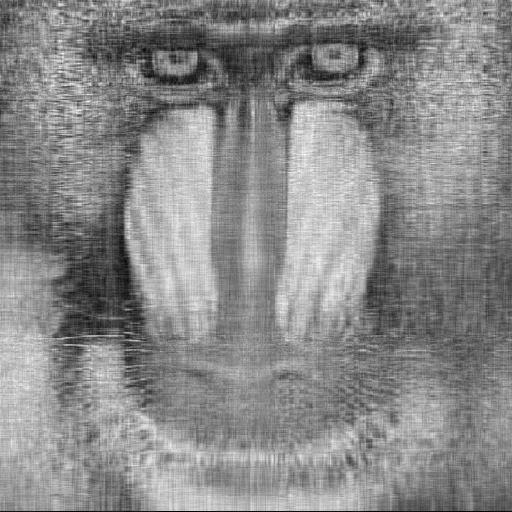
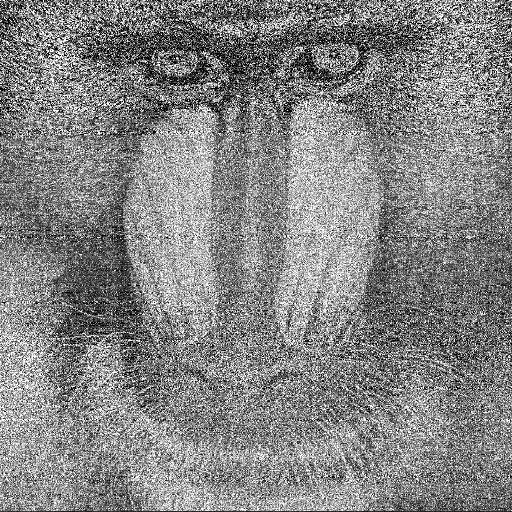
image denoising shit

diff --git a/image_denoising.py b/image_denoising.py
@@ -14,13 +14,14 @@ m, n = original_image.shape
 
 noise_std = 0.1
 np.random.seed(0)
-noise = np.random.normal(0, noise_std, original_image.shape)
-noisy_image = original_image + noise, 0, 1
+noise = np.random.normal(0, noise_std**0.5, original_image.shape)
+print(noise)
+noisy_image = np.clip(original_image + noise,0,1)
 plt.imsave('noisy_mandrill.jpg',noisy_image, cmap='gray')
 
 plt.imsave('denoising_results/noisy_image.jpg', noisy_image, cmap='gray')
 
-percentages=[0.01, 0.05]
+percentages=[0.01, 0.05, 0.1, 0.2]
 solvers = ['mu', 'cd']
 results = []
 full_rank= np.linalg.matrix_rank(noisy_image)
@@ -42,7 +43,7 @@ for perc in percentages:
             mse = np.mean((original_image - reconstructed) ** 2)
             psnr = 10 * np.log10(1.0 / mse)
 
-            img_filename = f'denoising_results/reconstructed_{solver}.jpg'
+            img_filename = f'denoising_results/reconstructed_{perc}_{solver}.jpg'
             plt.imsave(img_filename, reconstructed, cmap='gray')
 
             results.append({
